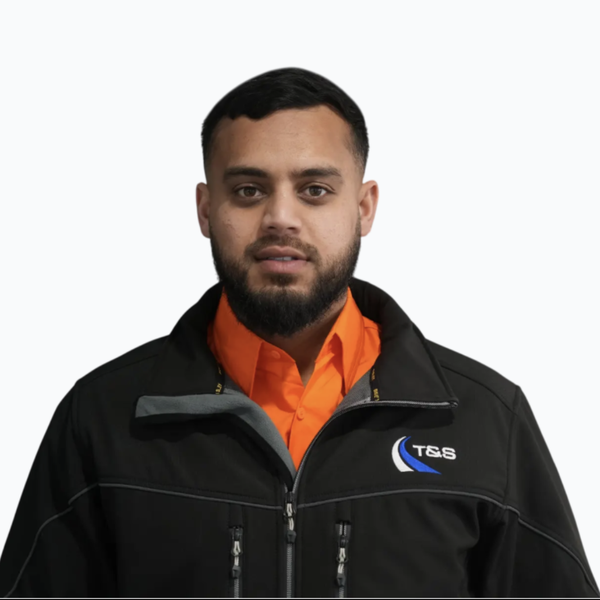
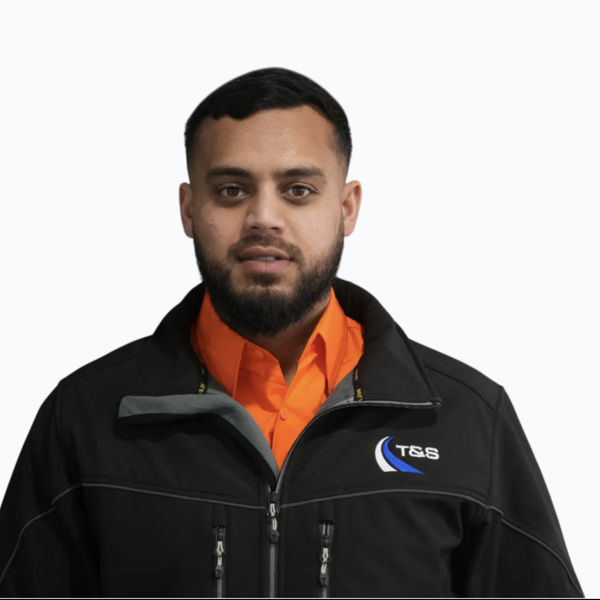
Shift Taj crop 30px right to center face

diff --git a/induction-slides.js b/induction-slides.js
@@ -8,7 +8,7 @@ const employeeGuideSlides = [
   {
     title: 'T&S Employee Guide',
     subtitle: '"A Safe Way Home"',
-    content: '<div class="text-center"><img src="/images/slides/ts-logo.png?v=6" alt="T&S Logo" style="height:120px;margin:0 auto 1.5rem;display:block;"><p class="text-2xl" style="color:var(--ts-cyan);margin-bottom:0.5rem;">Module 1 — Company Overview</p><p class="text-lg" style="color:var(--text-secondary);">Welcome to T&S Traffic Control</p></div>',
+    content: '<div class="text-center"><img src="/images/slides/ts-logo.png?v=7" alt="T&S Logo" style="height:120px;margin:0 auto 1.5rem;display:block;"><p class="text-2xl" style="color:var(--ts-cyan);margin-bottom:0.5rem;">Module 1 — Company Overview</p><p class="text-lg" style="color:var(--text-secondary);">Welcome to T&S Traffic Control</p></div>',
     layout: 'title',
     icon: ''
   },
@@ -16,7 +16,7 @@ const employeeGuideSlides = [
   {
     title: 'T&S Mission',
     subtitle: '"A Safe Way Home"',
-    content: '<div style="display:grid;grid-template-columns:1fr 1fr;gap:2rem;align-items:center;"><div><div style="border-left:3px solid var(--cyan);padding-left:16px;margin-bottom:16px;"><p style="font-size:22px;line-height:1.5;color:var(--cyan);font-weight:600;">T&S Traffic Control — "A Safe Way Home."</p></div><p style="color:rgba(255,255,255,0.72);font-size:16px;margin-bottom:16px;">Family-owned since 2021 — raising standards of safety, professionalism, and respect in NSW traffic control.</p><p style="color:rgba(255,255,255,0.72);font-size:16px;">ISO-certified, built to make a difference.</p></div><div style="display:flex;gap:1rem;justify-content:center;align-items:center;flex-wrap:wrap;"><img src="/images/slides/iso-9001.png?v=6" alt="ISO 9001" style="height:100px;border-radius:10px;box-shadow:0 4px 16px rgba(0,0,0,0.4);"><img src="/images/slides/iso-14001.png?v=6" alt="ISO 14001" style="height:100px;border-radius:10px;box-shadow:0 4px 16px rgba(0,0,0,0.4);"><img src="/images/slides/iso-45001.png?v=6" alt="ISO 45001" style="height:100px;border-radius:10px;box-shadow:0 4px 16px rgba(0,0,0,0.4);"></div></div>',
+    content: '<div style="display:grid;grid-template-columns:1fr 1fr;gap:2rem;align-items:center;"><div><div style="border-left:3px solid var(--cyan);padding-left:16px;margin-bottom:16px;"><p style="font-size:22px;line-height:1.5;color:var(--cyan);font-weight:600;">T&S Traffic Control — "A Safe Way Home."</p></div><p style="color:rgba(255,255,255,0.72);font-size:16px;margin-bottom:16px;">Family-owned since 2021 — raising standards of safety, professionalism, and respect in NSW traffic control.</p><p style="color:rgba(255,255,255,0.72);font-size:16px;">ISO-certified, built to make a difference.</p></div><div style="display:flex;gap:1rem;justify-content:center;align-items:center;flex-wrap:wrap;"><img src="/images/slides/iso-9001.png?v=7" alt="ISO 9001" style="height:100px;border-radius:10px;box-shadow:0 4px 16px rgba(0,0,0,0.4);"><img src="/images/slides/iso-14001.png?v=7" alt="ISO 14001" style="height:100px;border-radius:10px;box-shadow:0 4px 16px rgba(0,0,0,0.4);"><img src="/images/slides/iso-45001.png?v=7" alt="ISO 45001" style="height:100px;border-radius:10px;box-shadow:0 4px 16px rgba(0,0,0,0.4);"></div></div>',
     layout: 'content',
     icon: ''
   },
@@ -24,7 +24,7 @@ const employeeGuideSlides = [
   {
     title: 'Who We Are',
     subtitle: '',
-    content: '<div style="max-width:48rem;margin:0 auto;"><p style="font-size:1.2rem;line-height:1.8;margin-bottom:1.5rem;">What began as a small team built on strong values has grown into a trusted traffic control company known for <strong>integrity, precision, and care.</strong></p><p style="font-size:15px;line-height:1.7;color:rgba(255,255,255,0.72);margin-bottom:1.5rem;">We founded T&S to raise the standard of safety and respect in our industry — not just to offer a service.</p><div style="background:linear-gradient(135deg,#1e3a5f,#2563eb);border-radius:1rem;padding:1.5rem;color:white;"><p style="font-size:1.1rem;line-height:1.7;">Our mission is to <strong>protect lives</strong> and create a workplace where every team member can <strong>grow, lead, and deliver safe outcomes</strong> for the public, workers, and pedestrians.</p></div><div style="display:flex;gap:1.5rem;justify-content:center;margin-top:1.5rem;align-items:center;"><img src="/images/slides/lgp-approved.png?v=6" alt="LGP Approved" style="height:50px;"><img src="/images/slides/tmaa.png?v=6" alt="TMAA" style="height:40px;"></div></div>',
+    content: '<div style="max-width:48rem;margin:0 auto;"><p style="font-size:1.2rem;line-height:1.8;margin-bottom:1.5rem;">What began as a small team built on strong values has grown into a trusted traffic control company known for <strong>integrity, precision, and care.</strong></p><p style="font-size:15px;line-height:1.7;color:rgba(255,255,255,0.72);margin-bottom:1.5rem;">We founded T&S to raise the standard of safety and respect in our industry — not just to offer a service.</p><div style="background:linear-gradient(135deg,#1e3a5f,#2563eb);border-radius:1rem;padding:1.5rem;color:white;"><p style="font-size:1.1rem;line-height:1.7;">Our mission is to <strong>protect lives</strong> and create a workplace where every team member can <strong>grow, lead, and deliver safe outcomes</strong> for the public, workers, and pedestrians.</p></div><div style="display:flex;gap:1.5rem;justify-content:center;margin-top:1.5rem;align-items:center;"><img src="/images/slides/lgp-approved.png?v=7" alt="LGP Approved" style="height:50px;"><img src="/images/slides/tmaa.png?v=7" alt="TMAA" style="height:40px;"></div></div>',
     layout: 'content',
     icon: ''
   },
@@ -32,7 +32,7 @@ const employeeGuideSlides = [
   {
     title: 'Meet Our Founders',
     subtitle: 'Taj & Saadat',
-    content: '<div class="founders-grid"><div class="founders-photos"><div style="text-align:center;"><div class="founder-circle cyan"><img src="/images/slides/founder-taj-circle.png?v=6" alt="Taj"></div><p style="font-weight:700;font-size:15px;color:white;">Taj</p></div><div style="text-align:center;"><div class="founder-circle orange"><img src="/images/slides/founder-saadat-circle.png?v=6" alt="Saadat"></div><p style="font-weight:700;font-size:15px;color:white;">Saadat</p></div></div><div class="founders-text"><p style="font-size:15px;line-height:1.7;margin-bottom:0.75rem;color:rgba(255,255,255,0.72);">Lifelong friends turned business partners, they founded the company with a shared vision — to lift the standard of safety, professionalism, and opportunity.</p><p style="font-size:14px;color:rgba(255,255,255,0.55);margin-bottom:0.75rem;line-height:1.7;">From humble beginnings, they built T&S through hard work, trust, and a deep sense of responsibility to both clients and their team.</p><p style="font-size:14px;color:rgba(255,255,255,0.55);line-height:1.7;">Their leadership goes beyond operations — they\'re dedicated to building a workplace that <strong>develops, supports, and empowers</strong> people to grow, lead, and succeed.</p></div></div>',
+    content: '<div class="founders-grid"><div class="founders-photos"><div style="text-align:center;"><div class="founder-circle cyan"><img src="/images/slides/founder-taj-circle.png?v=7" alt="Taj"></div><p style="font-weight:700;font-size:15px;color:white;">Taj</p></div><div style="text-align:center;"><div class="founder-circle orange"><img src="/images/slides/founder-saadat-circle.png?v=7" alt="Saadat"></div><p style="font-weight:700;font-size:15px;color:white;">Saadat</p></div></div><div class="founders-text"><p style="font-size:15px;line-height:1.7;margin-bottom:0.75rem;color:rgba(255,255,255,0.72);">Lifelong friends turned business partners, they founded the company with a shared vision — to lift the standard of safety, professionalism, and opportunity.</p><p style="font-size:14px;color:rgba(255,255,255,0.55);margin-bottom:0.75rem;line-height:1.7;">From humble beginnings, they built T&S through hard work, trust, and a deep sense of responsibility to both clients and their team.</p><p style="font-size:14px;color:rgba(255,255,255,0.55);line-height:1.7;">Their leadership goes beyond operations — they\'re dedicated to building a workplace that <strong>develops, supports, and empowers</strong> people to grow, lead, and succeed.</p></div></div>',
     layout: 'content',
     icon: ''
   },
@@ -40,7 +40,7 @@ const employeeGuideSlides = [
   {
     title: 'What Has Our Team Accomplished?',
     subtitle: '',
-    content: '<div style="display:grid;grid-template-columns:1fr 1fr;gap:2rem;align-items:start;"><div class="project-list"><div class="proj-item"><p class="proj-client">Daracon</p><p class="proj-desc">Richmond Rd Road Widening Works</p></div><div class="proj-item"><p class="proj-client">Daracon</p><p class="proj-desc">Stoney Creek Rd Road Widening Works</p></div><div class="proj-item"><p class="proj-client">Abergeldie</p><p class="proj-desc">Road Widening Hill Rd</p></div><div class="proj-item"><p class="proj-client">Axial Construction</p><p class="proj-desc">Wellington Rural Works / Service Station Upgrades</p></div><div class="proj-item"><p class="proj-client">Axial Construction</p><p class="proj-desc">Wallendbeen Road Pavement Upgrade</p></div><div class="proj-item"><p class="proj-client">TQM</p><p class="proj-desc">Wentworth Avenue Hotel Construction Traffic Management</p></div><div class="proj-item"><p class="proj-client">QMC</p><p class="proj-desc">Concord Hospital Roundabout & Stormwater Upgrade</p></div></div><div><img src="/images/slides/projects-collage.png?v=6" alt="T&S Projects" style="width:100%;max-height:450px;object-fit:contain;border-radius:12px;box-shadow:0 8px 32px rgba(0,0,0,0.5);"></div></div>',
+    content: '<div style="display:grid;grid-template-columns:1fr 1fr;gap:2rem;align-items:start;"><div class="project-list"><div class="proj-item"><p class="proj-client">Daracon</p><p class="proj-desc">Richmond Rd Road Widening Works</p></div><div class="proj-item"><p class="proj-client">Daracon</p><p class="proj-desc">Stoney Creek Rd Road Widening Works</p></div><div class="proj-item"><p class="proj-client">Abergeldie</p><p class="proj-desc">Road Widening Hill Rd</p></div><div class="proj-item"><p class="proj-client">Axial Construction</p><p class="proj-desc">Wellington Rural Works / Service Station Upgrades</p></div><div class="proj-item"><p class="proj-client">Axial Construction</p><p class="proj-desc">Wallendbeen Road Pavement Upgrade</p></div><div class="proj-item"><p class="proj-client">TQM</p><p class="proj-desc">Wentworth Avenue Hotel Construction Traffic Management</p></div><div class="proj-item"><p class="proj-client">QMC</p><p class="proj-desc">Concord Hospital Roundabout & Stormwater Upgrade</p></div></div><div><img src="/images/slides/projects-collage.png?v=7" alt="T&S Projects" style="width:100%;max-height:450px;object-fit:contain;border-radius:12px;box-shadow:0 8px 32px rgba(0,0,0,0.5);"></div></div>',
     layout: 'content',
     icon: ''
   },
@@ -86,7 +86,7 @@ const employeeGuideSlides = [
   {
     title: 'Wear the Correct PPE Every Time!',
     subtitle: '',
-    content: '<div style="text-align:center;"><p style="font-size:16px;color:rgba(255,255,255,0.72);margin-bottom:1.5rem;">PPE protects you from traffic, machinery and weather — it\'s your <strong style="font-weight:600;">last line of defence.</strong><br>It is a <strong style="font-weight:600;">legal requirement</strong> under NSW WHS regulations.</p><div class="ppe-grid"><div class="ppe-item"><div class="ppe-slot"><img src="/images/slides/hard-hat.png?v=6" alt="Hard Hat" class="ppe-img"></div><p class="ppe-label">Hard Hat</p><p class="ppe-sub">All job sites</p></div><div class="ppe-item"><div class="ppe-slot"><img src="/images/slides/hivis-jacket.png?v=6" alt="Hi-Vis" class="ppe-img"></div><p class="ppe-label">Hi-Vis Clothing</p><p class="ppe-sub">Class D/N day & night</p></div><div class="ppe-item"><div class="ppe-slot"><img src="/images/slides/hivis-pants-navy.png?v=6" alt="Pants" class="ppe-img"></div><p class="ppe-label">Hi-Vis Pants</p><p class="ppe-sub">Reflective tape</p></div><div class="ppe-item"><div class="ppe-slot"><img src="/images/slides/wand-baton.png?v=6" alt="Wand" class="ppe-img"></div><p class="ppe-label">Wand / Baton</p><p class="ppe-sub">Night work</p></div><div class="ppe-item"><div class="ppe-slot"><img src="/images/slides/two-way-radio.png?v=6" alt="Radio" class="ppe-img"></div><p class="ppe-label">Two-Way Radio</p><p class="ppe-sub">Communication</p></div></div></div>',
+    content: '<div style="text-align:center;"><p style="font-size:16px;color:rgba(255,255,255,0.72);margin-bottom:1.5rem;">PPE protects you from traffic, machinery and weather — it\'s your <strong style="font-weight:600;">last line of defence.</strong><br>It is a <strong style="font-weight:600;">legal requirement</strong> under NSW WHS regulations.</p><div class="ppe-grid"><div class="ppe-item"><div class="ppe-slot"><img src="/images/slides/hard-hat.png?v=7" alt="Hard Hat" class="ppe-img"></div><p class="ppe-label">Hard Hat</p><p class="ppe-sub">All job sites</p></div><div class="ppe-item"><div class="ppe-slot"><img src="/images/slides/hivis-jacket.png?v=7" alt="Hi-Vis" class="ppe-img"></div><p class="ppe-label">Hi-Vis Clothing</p><p class="ppe-sub">Class D/N day & night</p></div><div class="ppe-item"><div class="ppe-slot"><img src="/images/slides/hivis-pants-navy.png?v=7" alt="Pants" class="ppe-img"></div><p class="ppe-label">Hi-Vis Pants</p><p class="ppe-sub">Reflective tape</p></div><div class="ppe-item"><div class="ppe-slot"><img src="/images/slides/wand-baton.png?v=7" alt="Wand" class="ppe-img"></div><p class="ppe-label">Wand / Baton</p><p class="ppe-sub">Night work</p></div><div class="ppe-item"><div class="ppe-slot"><img src="/images/slides/two-way-radio.png?v=7" alt="Radio" class="ppe-img"></div><p class="ppe-label">Two-Way Radio</p><p class="ppe-sub">Communication</p></div></div></div>',
     layout: 'content',
     icon: ''
   },
@@ -113,7 +113,7 @@ const employeeGuideSlides = [
   {
     title: 'Allocations & Job Site Information',
     subtitle: '',
-    content: '<div style="max-width:48rem;margin:0 auto;"><div style="text-align:center;margin-bottom:1.5rem;"><div style="display:inline-block;background:rgba(255,255,255,0.04);border-radius:10px;padding:12px 20px;"><img src="/images/slides/traffio-logo.png?v=6" alt="Traffio" style="height:45px;display:inline-block;"></div></div><p style="font-size:15px;line-height:1.7;color:rgba(255,255,255,0.72);text-align:center;margin-bottom:2rem;">Traffio is the app we use to allocate and roster all employees. It provides information on the job site, resources, location, TGS, ROL, and all safety documents and procedures required on site.</p><div style="display:grid;grid-template-columns:repeat(2,1fr);gap:0.75rem;"><div style="background:rgba(255,255,255,0.04);border:1px solid rgba(255,255,255,0.08);border-radius:8px;padding:14px 16px;display:flex;align-items:center;gap:10px;"><span style="color:var(--cyan);font-size:8px;">&#9679;</span><p style="font-weight:600;font-size:15px;">All employees receive login details to their email</p></div><div style="background:rgba(255,255,255,0.04);border:1px solid rgba(255,255,255,0.08);border-radius:8px;padding:14px 16px;display:flex;align-items:center;gap:10px;"><span style="color:var(--cyan);font-size:8px;">&#9679;</span><p style="font-weight:600;font-size:15px;">You will receive job allocations for the following day</p></div><div style="background:rgba(255,255,255,0.04);border:1px solid rgba(255,255,255,0.08);border-radius:8px;padding:14px 16px;display:flex;align-items:center;gap:10px;"><span style="color:var(--cyan);font-size:8px;">&#9679;</span><p style="font-weight:600;font-size:15px;">You must accept or reject the shift. If rejected, notify your allocator</p></div><div style="background:rgba(255,255,255,0.04);border:1px solid rgba(255,255,255,0.08);border-left:3px solid var(--cyan);border-radius:8px;padding:14px 16px;display:flex;align-items:center;gap:10px;"><span style="color:var(--cyan);font-size:8px;">&#9679;</span><p style="font-weight:700;font-size:15px;color:var(--cyan);">ALL employees must have notifications ON!</p></div></div></div>',
+    content: '<div style="max-width:48rem;margin:0 auto;"><div style="text-align:center;margin-bottom:1.5rem;"><div style="display:inline-block;background:rgba(255,255,255,0.04);border-radius:10px;padding:12px 20px;"><img src="/images/slides/traffio-logo.png?v=7" alt="Traffio" style="height:45px;display:inline-block;"></div></div><p style="font-size:15px;line-height:1.7;color:rgba(255,255,255,0.72);text-align:center;margin-bottom:2rem;">Traffio is the app we use to allocate and roster all employees. It provides information on the job site, resources, location, TGS, ROL, and all safety documents and procedures required on site.</p><div style="display:grid;grid-template-columns:repeat(2,1fr);gap:0.75rem;"><div style="background:rgba(255,255,255,0.04);border:1px solid rgba(255,255,255,0.08);border-radius:8px;padding:14px 16px;display:flex;align-items:center;gap:10px;"><span style="color:var(--cyan);font-size:8px;">&#9679;</span><p style="font-weight:600;font-size:15px;">All employees receive login details to their email</p></div><div style="background:rgba(255,255,255,0.04);border:1px solid rgba(255,255,255,0.08);border-radius:8px;padding:14px 16px;display:flex;align-items:center;gap:10px;"><span style="color:var(--cyan);font-size:8px;">&#9679;</span><p style="font-weight:600;font-size:15px;">You will receive job allocations for the following day</p></div><div style="background:rgba(255,255,255,0.04);border:1px solid rgba(255,255,255,0.08);border-radius:8px;padding:14px 16px;display:flex;align-items:center;gap:10px;"><span style="color:var(--cyan);font-size:8px;">&#9679;</span><p style="font-weight:600;font-size:15px;">You must accept or reject the shift. If rejected, notify your allocator</p></div><div style="background:rgba(255,255,255,0.04);border:1px solid rgba(255,255,255,0.08);border-left:3px solid var(--cyan);border-radius:8px;padding:14px 16px;display:flex;align-items:center;gap:10px;"><span style="color:var(--cyan);font-size:8px;">&#9679;</span><p style="font-weight:700;font-size:15px;color:var(--cyan);">ALL employees must have notifications ON!</p></div></div></div>',
     layout: 'content',
     icon: ''
   },
@@ -121,7 +121,7 @@ const employeeGuideSlides = [
   {
     title: 'Using Traffio — Steps 1–3',
     subtitle: 'Receive, Review, Read',
-    content: '<div class="steps-grid"><div class="step-card"><div class="step-label">STEP 1</div><img src="/images/slides/traffio-jobs.png?v=6" alt="Job list" class="step-img"><p class="step-title">Receive Job Request</p><p class="step-desc">Booking time is start time on site</p></div><div class="step-card"><div class="step-label">STEP 2</div><img src="/images/slides/traffio-accept.png?v=6" alt="Accept job" class="step-img"><p class="step-title">Review & Accept Job</p><p class="step-desc">Check details and confirm</p></div><div class="step-card"><div class="step-label">STEP 3</div><img src="/images/slides/traffio-details.png?v=6" alt="Read details" class="step-img"><p class="step-title">Read Description & Contact Crew</p><p class="step-desc">Review all job info</p></div></div>',
+    content: '<div class="steps-grid"><div class="step-card"><div class="step-label">STEP 1</div><img src="/images/slides/traffio-jobs.png?v=7" alt="Job list" class="step-img"><p class="step-title">Receive Job Request</p><p class="step-desc">Booking time is start time on site</p></div><div class="step-card"><div class="step-label">STEP 2</div><img src="/images/slides/traffio-accept.png?v=7" alt="Accept job" class="step-img"><p class="step-title">Review & Accept Job</p><p class="step-desc">Check details and confirm</p></div><div class="step-card"><div class="step-label">STEP 3</div><img src="/images/slides/traffio-details.png?v=7" alt="Read details" class="step-img"><p class="step-title">Read Description & Contact Crew</p><p class="step-desc">Review all job info</p></div></div>',
     layout: 'split',
     icon: ''
   },
@@ -129,7 +129,7 @@ const employeeGuideSlides = [
   {
     title: 'Using Traffio — Steps 4–6',
     subtitle: 'Docs, Checklists, Timesheet',
-    content: '<div class="steps-grid"><div class="step-card"><div class="step-label">STEP 4</div><img src="/images/slides/traffio-docs.png?v=6" alt="Site docs" class="step-img"><p class="step-title">Review All Site Docs</p><p class="step-desc">TGS, ROL, safety documents</p></div><div class="step-card"><div class="step-label">STEP 5</div><img src="/images/slides/traffio-forms-tab.png?v=6" alt="Checklists" class="step-img"><p class="step-title">Fill Checklist Forms</p><p class="step-desc">Complete during every job</p></div><div class="step-card"><div class="step-label">STEP 6</div><img src="/images/slides/traffio-timesheet.png?v=6" alt="Timesheet" class="step-img"><p class="step-title">Submit Signed Timesheet</p><p class="step-desc step-desc-red">Client + Team Leader MUST sign timesheet!</p></div></div>',
+    content: '<div class="steps-grid"><div class="step-card"><div class="step-label">STEP 4</div><img src="/images/slides/traffio-docs.png?v=7" alt="Site docs" class="step-img"><p class="step-title">Review All Site Docs</p><p class="step-desc">TGS, ROL, safety documents</p></div><div class="step-card"><div class="step-label">STEP 5</div><img src="/images/slides/traffio-forms-tab.png?v=7" alt="Checklists" class="step-img"><p class="step-title">Fill Checklist Forms</p><p class="step-desc">Complete during every job</p></div><div class="step-card"><div class="step-label">STEP 6</div><img src="/images/slides/traffio-timesheet.png?v=7" alt="Timesheet" class="step-img"><p class="step-title">Submit Signed Timesheet</p><p class="step-desc step-desc-red">Client + Team Leader MUST sign timesheet!</p></div></div>',
     layout: 'split',
     icon: ''
   },
@@ -137,7 +137,7 @@ const employeeGuideSlides = [
   {
     title: 'Accessible Forms',
     subtitle: '',
-    content: '<div style="display:grid;grid-template-columns:1fr 1fr;gap:2rem;align-items:center;"><div><p style="font-size:15px;line-height:1.7;color:rgba(255,255,255,0.72);margin-bottom:1.5rem;">On Traffio, tap the <strong>"Forms"</strong> tab at the bottom of the screen. Always submit a form and follow it up with your supervisor via phone call.</p><div class="form-list"><div class="form-row"><span class="form-ico" style="color:var(--cyan);"><svg width="18" height="18" viewBox="0 0 24 24" fill="none" stroke="currentColor" stroke-width="2" stroke-linecap="round" stroke-linejoin="round"><rect x="3" y="4" width="18" height="18" rx="2"/><path d="M16 2v4M8 2v4M3 10h18"/></svg></span><span class="form-label">Leave Request</span></div><div class="form-row"><span class="form-ico" style="color:#fbbf24;"><svg width="18" height="18" viewBox="0 0 24 24" fill="none" stroke="currentColor" stroke-width="2" stroke-linecap="round" stroke-linejoin="round"><path d="M10.29 3.86L1.82 18a2 2 0 001.71 3h16.94a2 2 0 001.71-3L13.71 3.86a2 2 0 00-3.42 0z"/><line x1="12" y1="9" x2="12" y2="13"/><line x1="12" y1="17" x2="12.01" y2="17"/></svg></span><span class="form-label">Near Miss Investigation Form</span></div><div class="form-row"><span class="form-ico" style="color:#f87171;"><svg width="18" height="18" viewBox="0 0 24 24" fill="none" stroke="currentColor" stroke-width="2" stroke-linecap="round" stroke-linejoin="round"><circle cx="12" cy="12" r="10"/><line x1="12" y1="8" x2="12" y2="12"/><line x1="12" y1="16" x2="12.01" y2="16"/></svg></span><span class="form-label">On-Site Incident Report Form</span></div><div class="form-row"><span class="form-ico" style="color:#60a5fa;"><svg width="18" height="18" viewBox="0 0 24 24" fill="none" stroke="currentColor" stroke-width="2" stroke-linecap="round" stroke-linejoin="round"><rect x="1" y="3" width="15" height="13"/><polygon points="16 8 20 8 23 11 23 16 16 16 16 8"/><circle cx="5.5" cy="18.5" r="2.5"/><circle cx="18.5" cy="18.5" r="2.5"/></svg></span><span class="form-label">Vehicle Incident Report Form</span></div><div class="form-row"><span class="form-ico" style="color:#a78bfa;"><svg width="18" height="18" viewBox="0 0 24 24" fill="none" stroke="currentColor" stroke-width="2" stroke-linecap="round" stroke-linejoin="round"><path d="M23 19a2 2 0 01-2 2H3a2 2 0 01-2-2V8a2 2 0 012-2h4l2-3h6l2 3h4a2 2 0 012 2z"/><circle cx="12" cy="13" r="4"/></svg></span><span class="form-label">Site / Vehicle Equipment Count</span></div></div></div><div style="text-align:center;"><img src="/images/slides/traffio-forms.png?v=6" alt="Forms Tab" style="max-height:400px;border-radius:12px;border:1px solid rgba(255,255,255,0.08);box-shadow:0 8px 32px rgba(0,0,0,0.6);"></div></div>',
+    content: '<div style="display:grid;grid-template-columns:1fr 1fr;gap:2rem;align-items:center;"><div><p style="font-size:15px;line-height:1.7;color:rgba(255,255,255,0.72);margin-bottom:1.5rem;">On Traffio, tap the <strong>"Forms"</strong> tab at the bottom of the screen. Always submit a form and follow it up with your supervisor via phone call.</p><div class="form-list"><div class="form-row"><span class="form-ico" style="color:var(--cyan);"><svg width="18" height="18" viewBox="0 0 24 24" fill="none" stroke="currentColor" stroke-width="2" stroke-linecap="round" stroke-linejoin="round"><rect x="3" y="4" width="18" height="18" rx="2"/><path d="M16 2v4M8 2v4M3 10h18"/></svg></span><span class="form-label">Leave Request</span></div><div class="form-row"><span class="form-ico" style="color:#fbbf24;"><svg width="18" height="18" viewBox="0 0 24 24" fill="none" stroke="currentColor" stroke-width="2" stroke-linecap="round" stroke-linejoin="round"><path d="M10.29 3.86L1.82 18a2 2 0 001.71 3h16.94a2 2 0 001.71-3L13.71 3.86a2 2 0 00-3.42 0z"/><line x1="12" y1="9" x2="12" y2="13"/><line x1="12" y1="17" x2="12.01" y2="17"/></svg></span><span class="form-label">Near Miss Investigation Form</span></div><div class="form-row"><span class="form-ico" style="color:#f87171;"><svg width="18" height="18" viewBox="0 0 24 24" fill="none" stroke="currentColor" stroke-width="2" stroke-linecap="round" stroke-linejoin="round"><circle cx="12" cy="12" r="10"/><line x1="12" y1="8" x2="12" y2="12"/><line x1="12" y1="16" x2="12.01" y2="16"/></svg></span><span class="form-label">On-Site Incident Report Form</span></div><div class="form-row"><span class="form-ico" style="color:#60a5fa;"><svg width="18" height="18" viewBox="0 0 24 24" fill="none" stroke="currentColor" stroke-width="2" stroke-linecap="round" stroke-linejoin="round"><rect x="1" y="3" width="15" height="13"/><polygon points="16 8 20 8 23 11 23 16 16 16 16 8"/><circle cx="5.5" cy="18.5" r="2.5"/><circle cx="18.5" cy="18.5" r="2.5"/></svg></span><span class="form-label">Vehicle Incident Report Form</span></div><div class="form-row"><span class="form-ico" style="color:#a78bfa;"><svg width="18" height="18" viewBox="0 0 24 24" fill="none" stroke="currentColor" stroke-width="2" stroke-linecap="round" stroke-linejoin="round"><path d="M23 19a2 2 0 01-2 2H3a2 2 0 01-2-2V8a2 2 0 012-2h4l2-3h6l2 3h4a2 2 0 012 2z"/><circle cx="12" cy="13" r="4"/></svg></span><span class="form-label">Site / Vehicle Equipment Count</span></div></div></div><div style="text-align:center;"><img src="/images/slides/traffio-forms.png?v=7" alt="Forms Tab" style="max-height:400px;border-radius:12px;border:1px solid rgba(255,255,255,0.08);box-shadow:0 8px 32px rgba(0,0,0,0.6);"></div></div>',
     layout: 'content',
     icon: ''
   },
@@ -145,7 +145,7 @@ const employeeGuideSlides = [
   {
     title: 'Leave Days',
     subtitle: '',
-    content: '<div style="display:grid;grid-template-columns:1fr 1fr;gap:2.5rem;align-items:center;"><div><p style="font-size:15px;line-height:1.7;color:rgba(255,255,255,0.72);margin-bottom:1.5rem;">Open the Traffio app and tap the <strong>Leave</strong> tab at the bottom of the screen.</p><div class="leave-points"><div class="leave-point"><span class="leave-num">1</span><div class="leave-body"><p class="leave-head">Submit Your Request</p><p class="leave-desc">Enter any leave days you wish to request under the Leave tab.</p></div></div><div class="leave-point"><span class="leave-num">2</span><div class="leave-body"><p class="leave-head">Give Notice</p><p class="leave-desc">Requests must be submitted at least <strong>2 days before</strong> your intended leave date.</p></div></div><div class="leave-point"><span class="leave-num">3</span><div class="leave-body"><p class="leave-head">Await Approval</p><p class="leave-desc">Requests are reviewed and approved by an administrator.</p></div></div></div></div><div style="text-align:center;"><img src="/images/slides/traffio-leave.png?v=6" alt="Leave Calendar" style="max-height:400px;border-radius:12px;border:1px solid rgba(255,255,255,0.08);box-shadow:0 8px 32px rgba(0,0,0,0.6);"></div></div>',
+    content: '<div style="display:grid;grid-template-columns:1fr 1fr;gap:2.5rem;align-items:center;"><div><p style="font-size:15px;line-height:1.7;color:rgba(255,255,255,0.72);margin-bottom:1.5rem;">Open the Traffio app and tap the <strong>Leave</strong> tab at the bottom of the screen.</p><div class="leave-points"><div class="leave-point"><span class="leave-num">1</span><div class="leave-body"><p class="leave-head">Submit Your Request</p><p class="leave-desc">Enter any leave days you wish to request under the Leave tab.</p></div></div><div class="leave-point"><span class="leave-num">2</span><div class="leave-body"><p class="leave-head">Give Notice</p><p class="leave-desc">Requests must be submitted at least <strong>2 days before</strong> your intended leave date.</p></div></div><div class="leave-point"><span class="leave-num">3</span><div class="leave-body"><p class="leave-head">Await Approval</p><p class="leave-desc">Requests are reviewed and approved by an administrator.</p></div></div></div></div><div style="text-align:center;"><img src="/images/slides/traffio-leave.png?v=7" alt="Leave Calendar" style="max-height:400px;border-radius:12px;border:1px solid rgba(255,255,255,0.08);box-shadow:0 8px 32px rgba(0,0,0,0.6);"></div></div>',
     layout: 'content',
     icon: ''
   },
@@ -188,7 +188,7 @@ const employeeGuideSlides = [
   {
     title: 'T&S Vehicle Rules',
     subtitle: '',
-    content: '<div style="display:grid;grid-template-columns:1fr 1fr;gap:2rem;align-items:start;"><div><div style="display:grid;gap:0.55rem;"><div class="form-row"><span class="form-ico" style="color:var(--cyan);"><svg width="18" height="18" viewBox="0 0 24 24" fill="none" stroke="currentColor" stroke-width="2" stroke-linecap="round" stroke-linejoin="round"><path d="M2 20h20"/><path d="M5 20V8l7-5 7 5v12"/></svg></span><span class="form-label">Maximum vehicle height is <strong style="color:var(--cyan);">2.5 metres</strong></span></div><div class="form-row"><span class="form-ico" style="color:var(--cyan);"><svg width="18" height="18" viewBox="0 0 24 24" fill="none" stroke="currentColor" stroke-width="2" stroke-linecap="round" stroke-linejoin="round"><circle cx="12" cy="12" r="10"/><line x1="4.93" y1="4.93" x2="19.07" y2="19.07"/></svg></span><span class="form-label">No parking in car parks or near shops</span></div><div class="form-row"><span class="form-ico" style="color:var(--cyan);"><svg width="18" height="18" viewBox="0 0 24 24" fill="none" stroke="currentColor" stroke-width="2" stroke-linecap="round" stroke-linejoin="round"><rect x="1" y="3" width="15" height="13"/><polygon points="16 8 20 8 23 11 23 16 16 16 16 8"/><circle cx="5.5" cy="18.5" r="2.5"/><circle cx="18.5" cy="18.5" r="2.5"/></svg></span><span class="form-label">Utes must remain on site at all times</span></div><div class="form-row"><span class="form-ico" style="color:var(--cyan);"><svg width="18" height="18" viewBox="0 0 24 24" fill="none" stroke="currentColor" stroke-width="2" stroke-linecap="round" stroke-linejoin="round"><circle cx="12" cy="12" r="10"/><line x1="4.93" y1="4.93" x2="19.07" y2="19.07"/></svg></span><span class="form-label">No eating or smoking inside company vehicles</span></div></div><div class="mp-card" style="margin-top:1rem;border-left:3px solid var(--red);"><div class="mp-card-head"><span class="mp-card-ico"><svg width="14" height="14" viewBox="0 0 24 24" fill="none" stroke="currentColor" stroke-width="2" stroke-linecap="round" stroke-linejoin="round"><path d="M10.29 3.86L1.82 18a2 2 0 001.71 3h16.94a2 2 0 001.71-3L13.71 3.86a2 2 0 00-3.42 0z"/><line x1="12" y1="9" x2="12" y2="13"/><line x1="12" y1="17" x2="12.01" y2="17"/></svg></span><span class="mp-card-title">Accident Liability</span></div><p class="mp-card-desc">Report immediately in Traffio. If driver at fault: vehicle excess <strong style="color:var(--cyan);font-weight:700;">$2,000</strong> (under 25), cage/arrowboard <strong style="color:var(--cyan);font-weight:700;">$1,000</strong> (under 25).</p></div></div><div style="text-align:center;"><img src="/images/slides/ts-ute.png?v=6" alt="T&S Vehicle" style="width:100%;border-radius:12px;margin-bottom:1rem;"><img src="/images/slides/golden-rules.png?v=6" alt="Golden Rules of Safety" style="width:100%;border-radius:12px;overflow:hidden;box-shadow:0 8px 32px rgba(0,0,0,0.5);"></div></div>',
+    content: '<div style="display:grid;grid-template-columns:1fr 1fr;gap:2rem;align-items:start;"><div><div style="display:grid;gap:0.55rem;"><div class="form-row"><span class="form-ico" style="color:var(--cyan);"><svg width="18" height="18" viewBox="0 0 24 24" fill="none" stroke="currentColor" stroke-width="2" stroke-linecap="round" stroke-linejoin="round"><path d="M2 20h20"/><path d="M5 20V8l7-5 7 5v12"/></svg></span><span class="form-label">Maximum vehicle height is <strong style="color:var(--cyan);">2.5 metres</strong></span></div><div class="form-row"><span class="form-ico" style="color:var(--cyan);"><svg width="18" height="18" viewBox="0 0 24 24" fill="none" stroke="currentColor" stroke-width="2" stroke-linecap="round" stroke-linejoin="round"><circle cx="12" cy="12" r="10"/><line x1="4.93" y1="4.93" x2="19.07" y2="19.07"/></svg></span><span class="form-label">No parking in car parks or near shops</span></div><div class="form-row"><span class="form-ico" style="color:var(--cyan);"><svg width="18" height="18" viewBox="0 0 24 24" fill="none" stroke="currentColor" stroke-width="2" stroke-linecap="round" stroke-linejoin="round"><rect x="1" y="3" width="15" height="13"/><polygon points="16 8 20 8 23 11 23 16 16 16 16 8"/><circle cx="5.5" cy="18.5" r="2.5"/><circle cx="18.5" cy="18.5" r="2.5"/></svg></span><span class="form-label">Utes must remain on site at all times</span></div><div class="form-row"><span class="form-ico" style="color:var(--cyan);"><svg width="18" height="18" viewBox="0 0 24 24" fill="none" stroke="currentColor" stroke-width="2" stroke-linecap="round" stroke-linejoin="round"><circle cx="12" cy="12" r="10"/><line x1="4.93" y1="4.93" x2="19.07" y2="19.07"/></svg></span><span class="form-label">No eating or smoking inside company vehicles</span></div></div><div class="mp-card" style="margin-top:1rem;border-left:3px solid var(--red);"><div class="mp-card-head"><span class="mp-card-ico"><svg width="14" height="14" viewBox="0 0 24 24" fill="none" stroke="currentColor" stroke-width="2" stroke-linecap="round" stroke-linejoin="round"><path d="M10.29 3.86L1.82 18a2 2 0 001.71 3h16.94a2 2 0 001.71-3L13.71 3.86a2 2 0 00-3.42 0z"/><line x1="12" y1="9" x2="12" y2="13"/><line x1="12" y1="17" x2="12.01" y2="17"/></svg></span><span class="mp-card-title">Accident Liability</span></div><p class="mp-card-desc">Report immediately in Traffio. If driver at fault: vehicle excess <strong style="color:var(--cyan);font-weight:700;">$2,000</strong> (under 25), cage/arrowboard <strong style="color:var(--cyan);font-weight:700;">$1,000</strong> (under 25).</p></div></div><div style="text-align:center;"><img src="/images/slides/ts-ute.png?v=7" alt="T&S Vehicle" style="width:100%;border-radius:12px;margin-bottom:1rem;"><img src="/images/slides/golden-rules.png?v=7" alt="Golden Rules of Safety" style="width:100%;border-radius:12px;overflow:hidden;box-shadow:0 8px 32px rgba(0,0,0,0.5);"></div></div>',
     layout: 'content',
     icon: ''
   },
